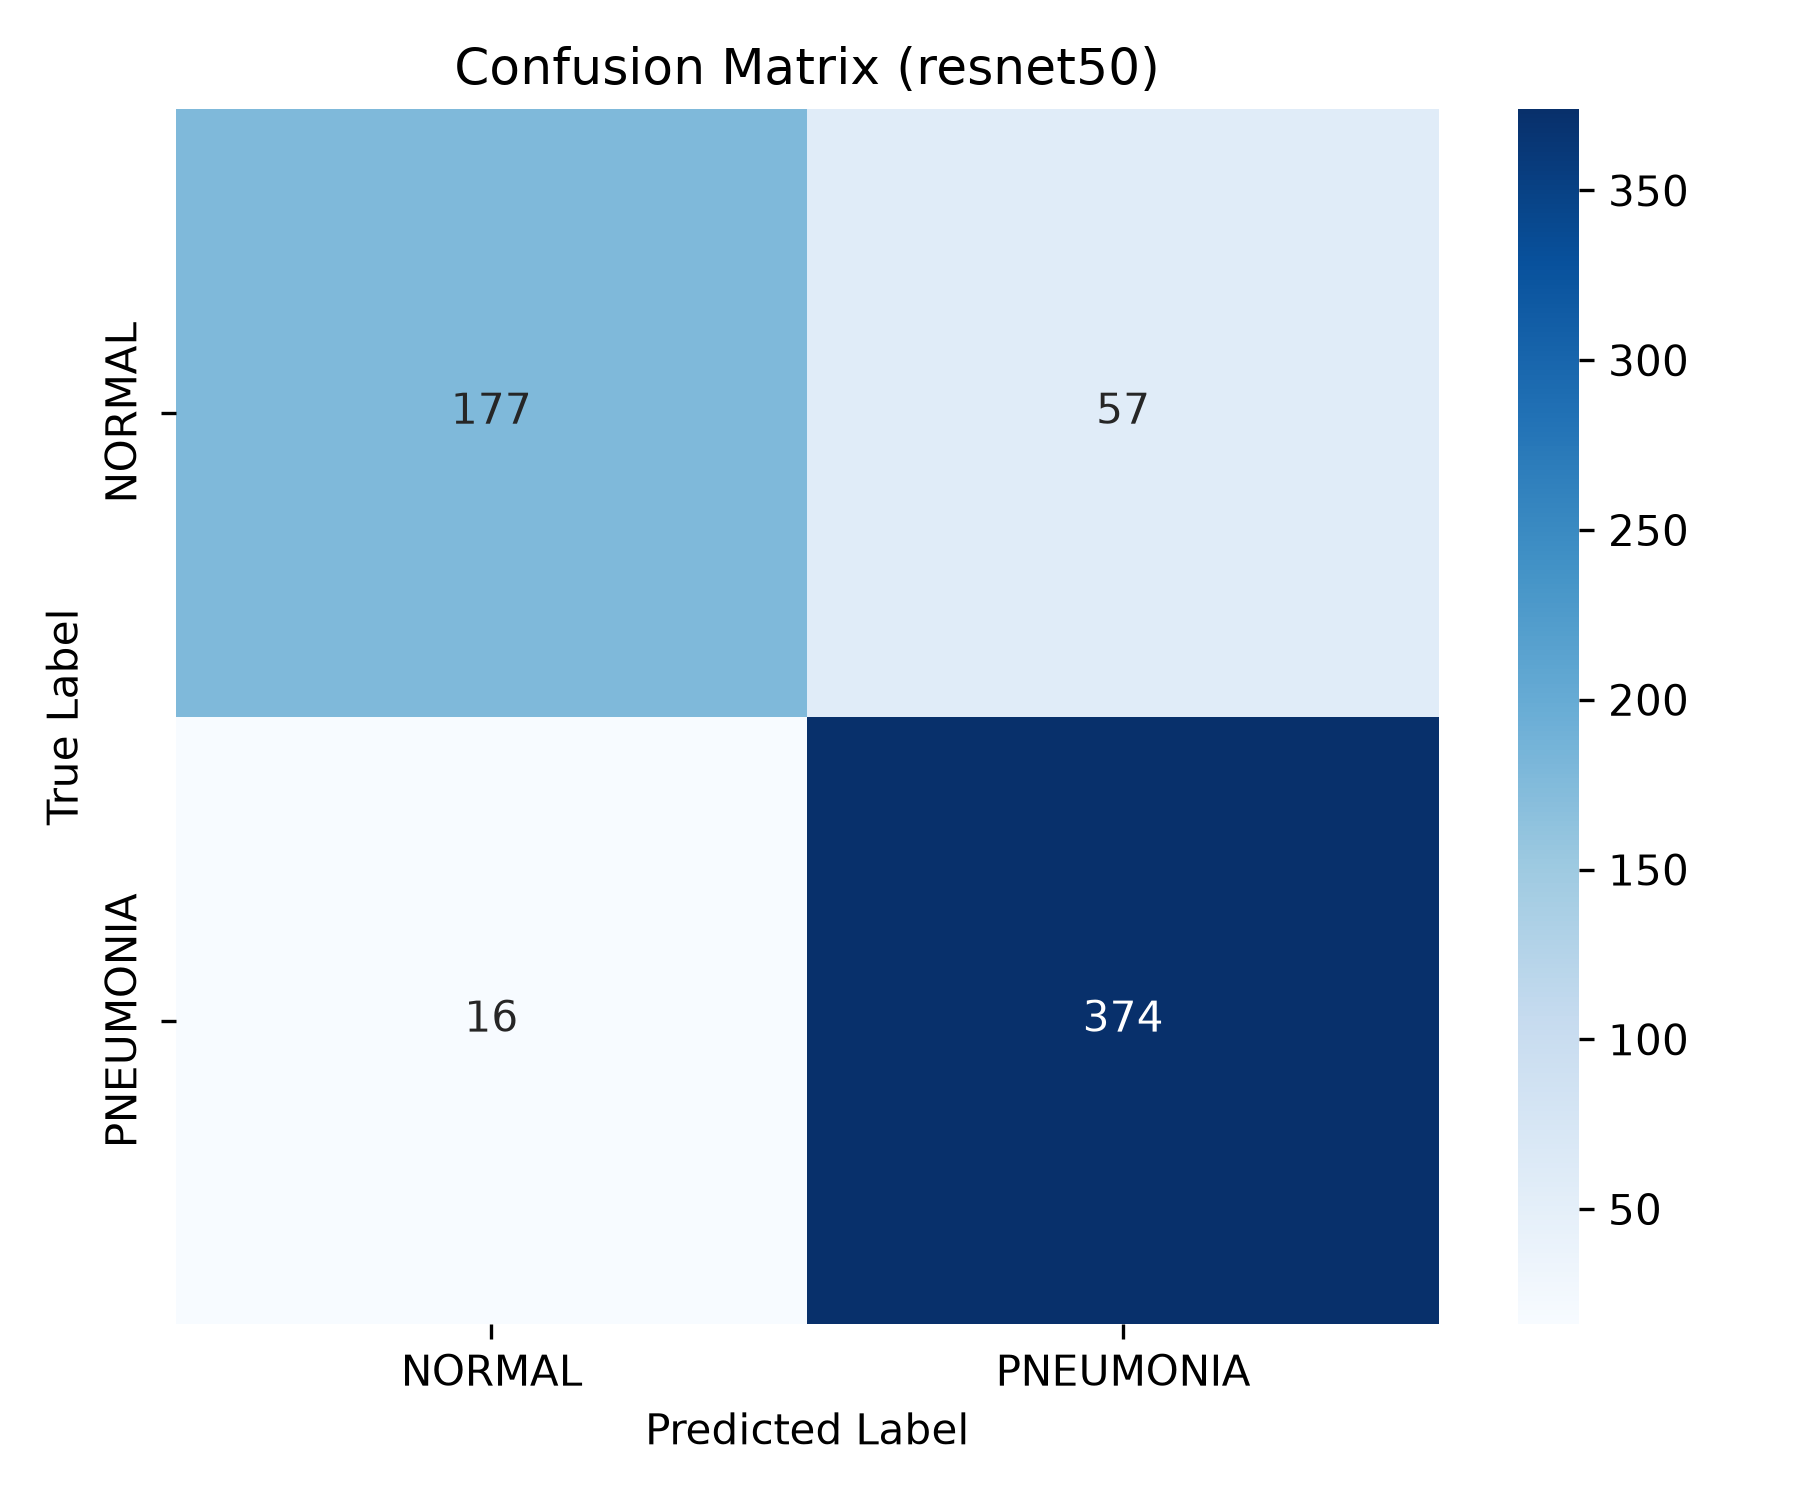
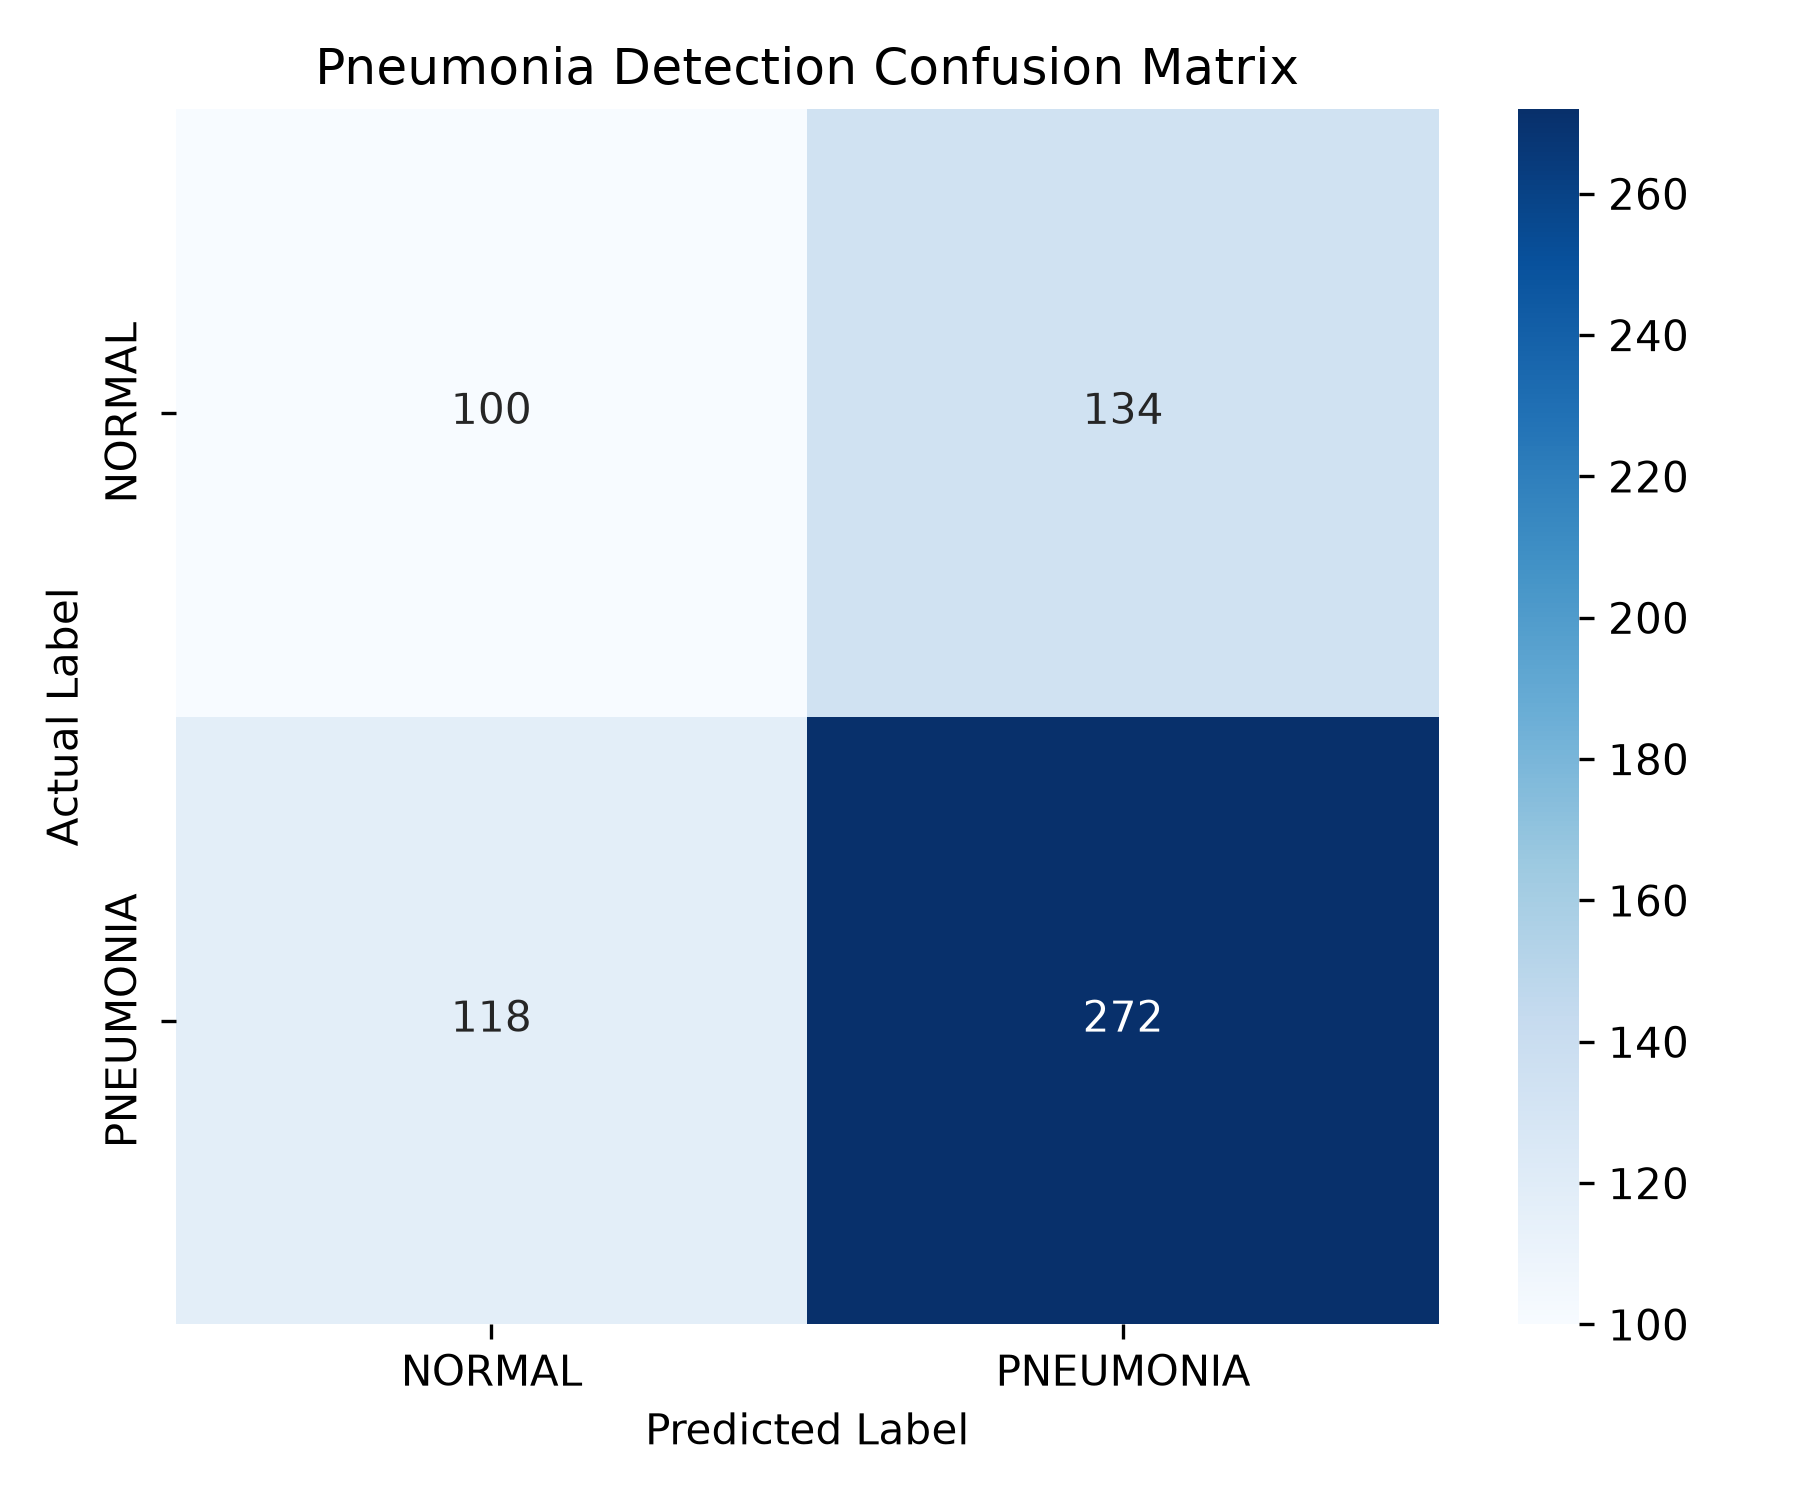
Add model evaluation results, Confusion Matrix plot, and ROC Curve graph

diff --git a/src/evaluate.py b/src/evaluate.py
@@ -92,3 +92,37 @@ def generate_evaluation_plots(y_true, y_pred_probs):
 
     print(f"📊 Saved Confusion Matrix plot to: {config.CONFUSION_MATRIX_PATH}")
     print(f"📈 Saved ROC Curve plot to: {config.ROC_CURVE_PATH}")
+
+def main():
+    if hasattr(sys.stdout, 'reconfigure'):
+        try:
+            sys.stdout.reconfigure(encoding='utf-8')
+        except Exception:
+            pass
+
+    print("==========================================")
+    print("Running Deep Learning Model Evaluation")
+    print("==========================================")
+
+    from src.preprocessing import get_datasets
+
+    model_path = config.FINAL_MODEL_PATH if os.path.exists(config.FINAL_MODEL_PATH) else config.CUSTOM_CNN_PATH
+    print(f"Loading evaluation model from: {model_path}")
+    model = tf.keras.models.load_model(model_path)
+
+    _, _, test_ds, class_names = get_datasets()
+    metrics, y_true, y_pred_probs = evaluate_model(model, test_ds)
+    generate_evaluation_plots(y_true, y_pred_probs)
+
+    print("\n==========================================")
+    print("TEST DATASET EVALUATION METRICS RESULTS:")
+    print("==========================================")
+    for k, v in metrics.items():
+        if isinstance(v, float):
+            print(f"  - {k.capitalize()}: {v*100:.2f}%" if k != 'roc_auc' else f"  - ROC-AUC: {v:.4f}")
+        else:
+            print(f"  - {k.capitalize()}: {v}")
+    print("==========================================\n")
+
+if __name__ == "__main__":
+    main()
